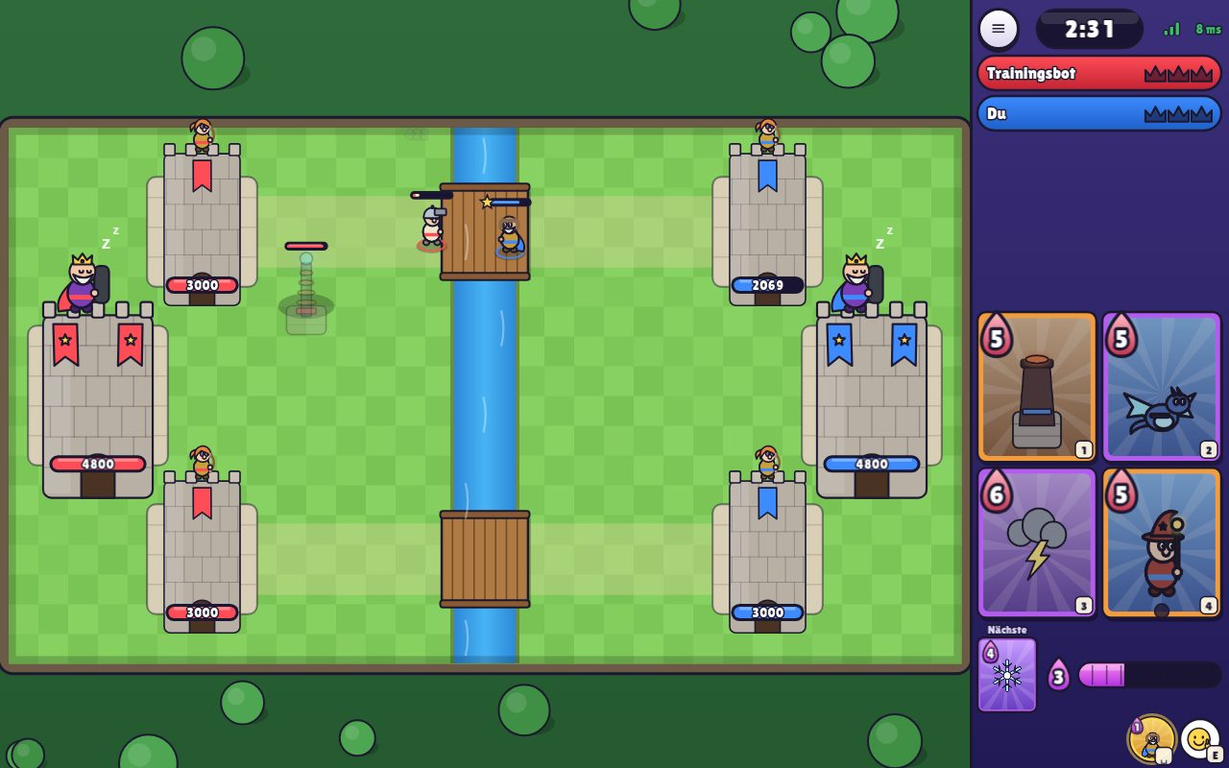
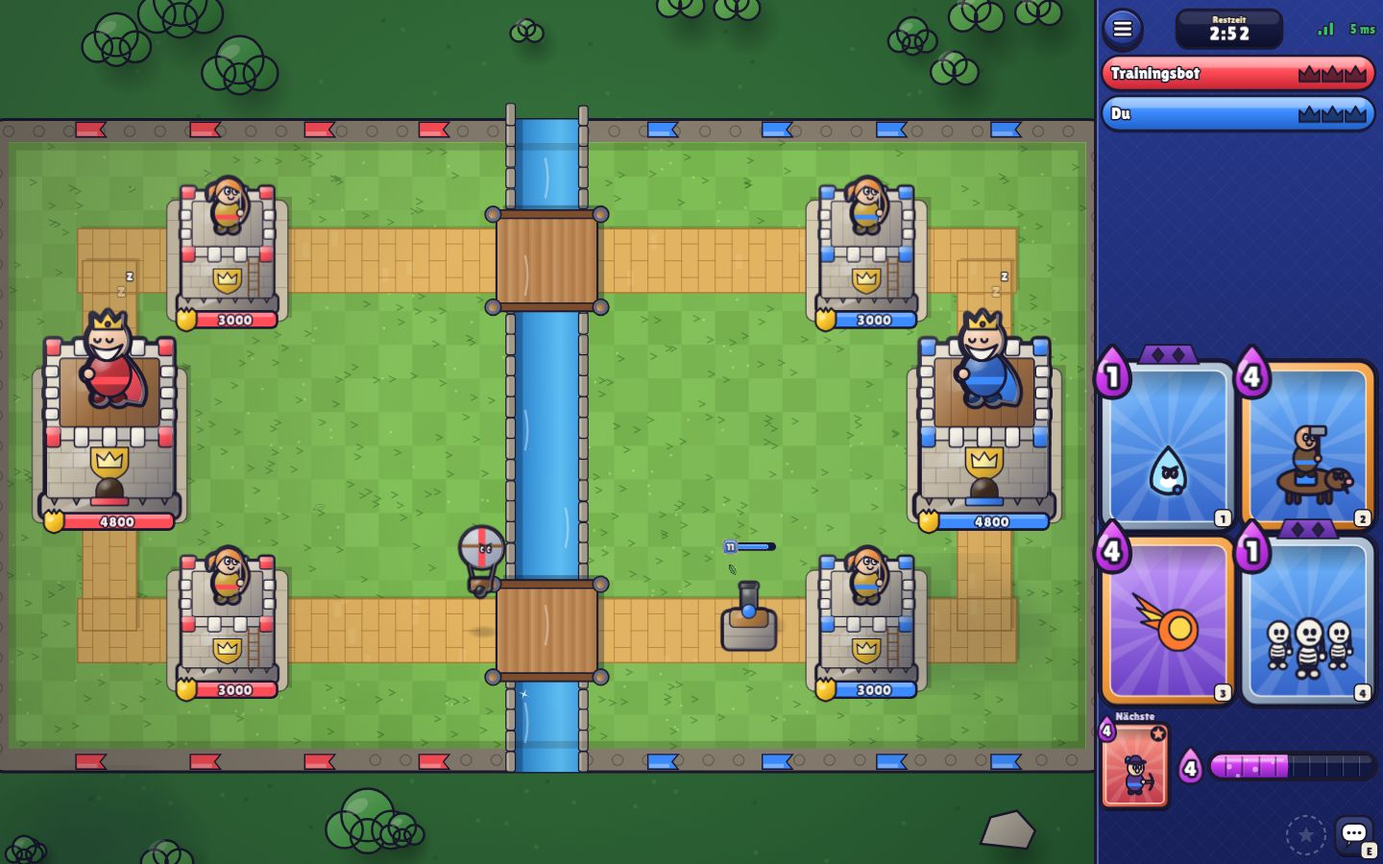
Bericht zum visuellen Upgrade (docs/REPORT.md), Vergleichsbögen vorher/nachher, README aktualisiert
- REPORT: Umbauten pro Phase, Dateistruktur, Vorher/Nachher, Performance (Extremszene gesamt und
  nur Kampfphase, normales Match mit automatischer und fester Auflösung), Mehrspieler-Test,
  Einschränkungen, offene Punkte, Anleitungen zu Presets, Designsystem und Qualitätsstufen
- docs/before_after/vergleich: 17 beschriftete Gegenüberstellungen
- README: Steuerung (Emote-Leiste, F3), Architektur, Werkzeuge, Titelbilder im neuen Look

Claude-Session: https://claude.ai/code/session_01Y8rRgYSLLZGca4oDTBhhbE

diff --git a/turmtrubel/docs/REPORT.md b/turmtrubel/docs/REPORT.md
@@ -1,0 +1,307 @@
+# Bericht: Visuelles Upgrade (Vektor-Look, VFX, Game-UI)
+
+Stand: 7. Oktober 2026 · Branch `claude/1v1-card-game-browser-l8fwez` · Commits `3ac0793` bis zum Commit dieses Berichts.
+
+Grundlagen: [`AUDIT.md`](AUDIT.md) (Ausgangslage), [`COMPARISON.md`](COMPARISON.md) (Referenz-Vergleich), [`STYLE_GUIDE.md`](STYLE_GUIDE.md) (Designsystem und Schnittstellen), [`vfx-katalog/`](vfx-katalog/) (alle Effekte als Kontaktbögen), [`before_after/`](before_after/) (Vorher/Nachher-Bilder und Messwerte).
+
+## Kurzfassung
+
+- **Spiellogik unangetastet.** `server/`, `shared/protocol.js`, `shared/arena.js`, `data/cards.json` und `data/rules.json` sind seit Beginn des Upgrades unverändert. Einzige Änderung in `shared/`: `applySkin` reicht zwei neue, rein optische Skin-Felder durch (`archetype`, `fx`). Alle Effekte werden clientseitig aus den bestehenden Ereignissen abgeleitet, es gibt keine neuen Protokoll-Ereignisse.
+- **Ein Vektor-Look für alles:** Licht von oben links, Glanz, dunkle Außenkontur, Rim-Light, weicher Schatten, als zentrales Licht-Modell im Zeichen-Primitiv. Figuren, Gebäude, Türme, HUD, Icons und DOM-Screens folgen denselben Tokens.
+- **VFX-Engine** mit Objekt-Pool, Prioritäten, additivem Blending, Spuren, Shockwaves, Decals, Glows, Blitzen, Schadenszahlen, Hit-Stop und Wackeln mit Regler. 99 JSON-Presets in drei Zeitstufen (Vorlauf, Kern, Nachhall).
+- **Game-UI:** Kartenhand mit Seltenheitsrahmen und Elixier-Fortschritt, Flüssigkeits-Elixierleiste, Timer-Box, Kronen-Plaketten, neue Türme mit Schadenstufen, Lebensbalken mit weißem Nachzieher, Emote-Leiste, Phasen-Banner. Dazu DOM-Screens in Nachtblau mit mehrstufigen 3D-Knöpfen, eigenem SVG-Icon-Set, Drag-and-Drop im Deck-Bauer, Kartendetail mit Reitern und Ergebnis mit Kronen-Kissen.
+- **Performance:** Trotz deutlich mehr Details läuft die Extremszene schneller als vorher (Zahlen in Abschnitt 4). Das liegt an Sprite-Cache, statischer Hintergrund-Ebene, Partikel-Pool und dynamischer Qualität. Die Zielwerte für Mittelklasse-Handys (60 FPS, mindestens 30 FPS) sind in dieser Testumgebung **nicht nachweisbar**, weil sie keine GPU hat (siehe Einschränkungen).
+- **Tests:** 276 Unit- und Integrationstests grün (neu: VFX, Manifest, Skin-Erweiterung). Dazu ein neuer Browser-Mehrspielertest: zwei echte Clients spielen ganze Kämpfe inklusive Verlängerung, ohne Konsolenfehler und ohne Desync.
+
+## 1. Umbauten pro Phase
+
+### Phase 1: Audit (`docs/AUDIT.md`)
+
+- Dateibaum, Render-Schichten, Inventar aller Zeichenroutinen (23 Körper, 20 Waffen, 19 Hüte, 12 Gebäude) und vorhandene Effekte.
+- Performance-Basis mit eigenem Werkzeug (`tools/bench/`): deterministische Extremszene mit bis zu 222 Entitäten, CPU-Drosselung, Long Tasks, Zeichenaufrufe.
+- 75 Vorher-Screenshots in drei Formaten und 38 Szenenbilder (`docs/before_after/before/`), neun benannte visuelle Schwächen, Risiken und Gegenmaßnahmen.
+
+### Phase 2: Vergleich (`docs/COMPARISON.md`, `docs/STYLE_GUIDE.md`)
+
+- Referenz-Screenshots nur als Orientierung für Layout, Proportionen, Hierarchie, Farblogik und Timing. Es wurden keine Assets übernommen, alles ist neu als Vektor gezeichnet.
+- Für Elixierleiste, Emote-Auswahl, Lobby, Einstellungen und das vollständige Hauptmenü gab es keine Referenz. Das ist dort so vermerkt; gestaltet wurde nach dem Style Guide, nicht aus dem Gedächtnis.
+- Bewusste Abweichung: Schatten fallen nach unten rechts (Licht von oben links laut Vorgabe), in der Referenz nach unten links.
+
+### Phase 3: Designsystem
+
+- **Tokens** (`client/js/design/tokens.js`, CSS `:root`): Team-, Gold-, Elixier- und Night-Palette, Seltenheiten inklusive Evo, Champion und Held, Effekt-Paletten, Konturen, Radien, Abstände, Z-Ebenen, Licht-Parameter und Qualitätsstufen.
+- **Licht-Regel als Code** (`design/light.js`): `LitCtx` umhüllt den Canvas-Kontext und füllt jede Form mit einem Verlauf von oben links nach unten rechts plus Glanz. `finishSprite` ergänzt dicke Außenkontur, Rim-Light unten rechts und ein Gesamtlicht. Weil das im Zeichen-Primitiv `fill()` sitzt, bekommen alle bestehenden Körper, Waffen, Hüte und Gebäude Volumen, ohne einzeln neu geschrieben zu werden.
+- **Asset-Pipeline mit Cache** (`design/spritecache.js`): Figuren, Gebäude und Türme werden einmal je Look, Team, Evo, Richtung, Frame, Größe und Qualität gerendert (LRU, 40 MB, höchstens 8 Neubauten bzw. 6 ms pro Frame, `force` im Ladescreen).
+- **Archetypen und Animation:** Frames Ruhe, Lauf 1 und 2, Angriff 1 und 2, Betäubt und Schlaf; prozedurales Squash und Stretch beim Kopieren; Rückansicht beim Laufen nach oben (Hochformat), Blickrichtung links und rechts.
+- **Asset-Manifest** (`design/manifest.js`) und `skin.json`-Erweiterung (`archetype`, `fx`), abwärtskompatibel.
+- **Easing-Bibliothek** (`design/easing.js`), dieselben Kurven als CSS-Variablen.
+
+### Phase 4: VFX
+
+- **Engine** (`client/js/vfx/engine.js`):
+  - Objekt-Pool und Prioritäten (Deko wird zuerst verdrängt)
+  - drei Ebenen: Boden, normal, additiv
+  - Emitter, Spuren, Ringe bzw. Shockwaves, Decals, Glows, Zickzack-Blitze, Flash, Schadenszahlen
+  - Wackeln nach Trauma-Modell mit Regler; Hit-Stop als reine Darstellungsverzögerung (Simulation und Eingaben unberührt)
+  - optionaler Sound-Hook
+- **Texturen** (`vfx/textures.js`): 17 Partikelformen und 7 Decals, prozedural und eingefärbt gecacht.
+- **Presets** (`vfx/presets.json`, 99 Stück) in drei Schichten mit Zeitstaffelung, Radius-Skalierung und Teamfarben; beim Start validiert.
+- **Katalog:**
+  - Ausspielen (Boden, schwer, Luft, Evo)
+  - Treffer leicht und schwer
+  - Projektil-Spuren und Einschläge
+  - alle Zauber
+  - Explosionen und Fähigkeiten
+  - Tod (Schwärme ab der 7. Figur pro Frame als sparsamer Effekt)
+  - Turm-Treffer, -Schadenstufen und -Zerstörung
+  - Königs-Erwachen, Elixier
+  - Phasen („Kampf!“, Doppel- und Dreifach-Elixier, Verlängerung, Sieg)
+  - Ambiente
+- Zauberzonen mit Bodenscheibe, Teamring und Runenring.
+- Einschläge werden clientseitig erkannt (Projektil-ID verschwindet); es gibt keine neuen Server-Ereignisse.
+
+### Phase 5: UI
+
+- **Arena:** Rand mit Bannern, Gras mit Variation, Fluss mit Steinkante und Wellen, Holzbrücken, Licht-Verlauf und Vignette. Gezeichnet auf eine eigene, statische Hintergrund-Ebene (`#bg-canvas`), die nur bei Größenänderung neu entsteht.
+- **Türme:** Steinkörper mit Zinnen, Wappen, Schadenstufen, Trümmern und Königskanone; Figuren mit Schlaf-Pose.
+- **Kampf-HUD** (`game/hud.js`, `game/hudart.js`):
+  - Kartenhand: Seltenheitsrahmen, Evo-, Champion- und Helden-Marke, Glanzstreifen bei bezahlbaren Karten, Graustufen mit Elixier-Fortschritt von unten, Evo-bereit-Rahmen, Auswahl-Glühen, nächste Karte mit Slide
+  - Elixierleiste: 10 Segmente, Flüssigkeit mit Welle, Glanz und Blasen, Pop beim Tropfen, Voll-Glühen, Kosten-Kerbe
+  - Timer-Box: rot pulsierend ab 10 s, Multiplikator-Tropfen ×2 bzw. ×3
+  - Kronen-Plaketten mit Kronenflug
+  - Lebensbalken mit weißem Nachzieher, bei vollem Leben ausgeblendet
+  - Emote-Leiste (einzeilig, bei zu wenig Breite 3×2), Phasen-Banner als Band-Schleifen
+  - Debug-Overlay auf F3
+- **DOM-Screens** in Nachtblau:
+  - Panels mit Lichtkante und Mulden, mehrstufige 3D-Knöpfe (Kontur, farbige Lippe, Verlauf, Glanzband) in allen Zuständen inklusive „deaktiviert“ und „lädt“
+  - eigenes SVG-Icon-Set (73 Icons) statt Emojis, Reiter, Schalter, Segmente
+  - Modal-Pop bzw. Bottom-Sheet, Screen-Übergänge
+- **Einzelne Screens:**
+  - Hauptmenü mit Arena-Bühne
+  - Lobby mit Code-Kacheln, Kopieren-Häkchen und Bereit-Siegel
+  - Deck-Bauer mit Drag-and-Drop in und zwischen Plätzen (Einrast-Animation, Zurückfliegen, Entfernen durch Ziehen in die Sammlung)
+  - Kartendetail mit Reitern Werte, Evo und Fähigkeit sowie Evo-Vorschau
+  - Einstellungen
+  - Ergebnis mit Bändern, Kronen-Kissen und gestaffeltem Kronen-Einsprung, Rematch-Status
+
+### Phase 6: Juice
+
+- Zentrale Easing-Kurven in JS und CSS.
+- Pop-, Einrast- und Überschwing-Animationen: Karten, Slots, Kronen, Code-Kacheln, Häkchen, Banner, Emote-Knöpfe.
+- Hit-Stop bei schweren Treffern, Wackeln mit Abklingen, Flash.
+- Sound-Hooks in Presets (Typ `sound`, läuft mit der Zeitstaffelung, z. B. Geröll im Nachhall des Turm-Einsturzes).
+
+### Phase 7: Performance und Barrierefreiheit
+
+- **Performance:**
+  - Sprite-Cache; statische Hintergrund-Ebene; Wackeln per CSS-Transform statt Neuzeichnen
+  - Text-Sprites; Partikel-Pool mit Budget je Qualität
+  - Lebensbalken nur bei Schaden, Abzeichen nur für größere Einheiten
+  - Vorrendern von Türmen, VFX-Texturen und den Figuren des eigenen Decks im Ladescreen
+- **Dynamische Qualität:** Bei anhaltend langsamen Frames sinken Renderauflösung (DPR 2 → 1,5 → 1,25 → 1) und Effektmenge (bis 40 %); bei flüssigem Lauf steigen sie wieder, mit Hysterese.
+- **Einstellungen:** Grafikqualität, automatische Qualität, Effekte reduzieren, Bildschirmwackeln (Regler), Farbenblind-Modus (Gegner-Abzeichen als Schild, gestreifte Gegner-Lebensbalken), Schadenszahlen.
+- **`prefers-reduced-motion`:** kein Wackeln, kein Hit-Stop, gedämpfter Flash, keine CSS-Animationen, kein Ambiente.
+- **Touch-Ziele** mindestens 44 px; geprüft von `tools/ui-shots.mjs` in jedem Zustand und Format.
+
+### Phase 8: Tests
+
+- **Unit-Tests:** VFX (Presets gültig und vollständig, Zeitstaffelung, Pooling, Lebensdauer, Partikelgrenzen und Prioritäten, Radius-Skalierung, Hit-Stop, reduzierte Bewegung, Effekte reduzieren, Sound-Hook), Manifest und Skin-Erweiterung.
+- **E2E-Test:** In `test/e2e.test.js` fehlte das reguläre Kampfende `tiebreak` (Entscheidung nach Turm-LP nach der Verlängerung). Deshalb schlug der Test je nach Timing sporadisch fehl; der Grund ist ergänzt.
+- **Neu:** `tools/e2e/browser-match.mjs` (zwei echte Browser-Clients, siehe Abschnitt 4).
+- **Selbstprüfung:** mehrere Runden über Screenshots und den VFX-Katalog (`tools/vfx-gallery.mjs`), unter anderem zu Radius-Skalierung, Additiv-Überstrahlung auf hellem Gras, Decal-Stärke, Königsturm-Proportionen und Schwarm-Abzeichen.
+
+## 2. Dateistruktur (neu bzw. wesentlich geändert)
+
+```
+client/
+  index.html                 #bg-canvas, SVG-Icons statt Emojis, Arena-Bühne im Menü
+  css/style.css              Nachtblau-Theme, 3D-Knöpfe, Reiter, Drag-and-Drop, Ergebnis, Bühne
+  js/design/
+    tokens.js                Farben, Licht-Parameter, Qualitätsstufen (Canvas)
+    easing.js                Easing-Bibliothek
+    light.js                 Licht-Modell (LitCtx, finishSprite, softGlow, softShadow)
+    spritecache.js           LRU-Sprite-Cache mit Bau-Budget pro Frame
+    manifest.js              Asset-Manifest
+  js/vfx/
+    engine.js                VFX-Engine (Pool, Ebenen, Shake, Hit-Stop, Sound-Hook)
+    textures.js              Partikel- und Decal-Texturen
+    presets.json             99 Effekt-Presets
+    presets.js               Laden und Validieren der Presets
+  js/game/
+    sprites.js               Figuren, Gebäude, Türme im Licht-Modell, Frames, Rückansicht, Katalog
+    renderer.js              Arena, Schatten, Zonen, Balken, Abzeichen, Wolken
+    hud.js / hudart.js       Kampf-HUD und seine gecachten Grafiken (Panels, Karten, Banner …)
+    game.js                  Ereignisse → Effekte, Phasen, Ambiente, dynamische Qualität, F3
+  js/ui/
+    icons.js                 SVG-Icon-Set (Sprite)
+    deckbuilder.js           Drag-and-Drop
+    cardview.js              Kartendetail mit Reitern
+    settings.js              neue Einstellungen
+  js/game/particles.js       entfernt (ersetzt durch vfx/)
+shared/cards.js              applySkin: archetype, fx (rein optisch)
+data/skin.json               Beschreibung der neuen Felder
+tools/
+  bench/run.mjs, replay.mjs  Extremszene und Messung (inklusive „nur Kampf“)
+  bench/profile.mjs          CPU-Profil nach Selbstzeit
+  bench/ablate.mjs           Abschalt-Varianten zur Kostenanalyse
+  vfx-gallery.mjs            VFX-Kontaktbögen
+  ui-shots.mjs               Screenshot-Tour mit Layout-Prüfungen und --perf
+  e2e/browser-match.mjs      zwei Browser-Clients, Desync- und Konsolenprüfung
+test/vfx.test.js, test/manifest.test.js, test/skin.test.js (erweitert), test/e2e.test.js (korrigiert)
+docs/AUDIT.md, COMPARISON.md, STYLE_GUIDE.md, REPORT.md, vfx-katalog/, before_after/
+```
+
+## 3. Vorher und nachher
+
+Alle Bilder liegen paarweise mit identischen Dateinamen in [`before_after/before/`](before_after/before/) und [`before_after/after/`](before_after/after/): 25 Zustände in drei Formaten (Handy hochkant 390×844, Handy quer 844×390, Desktop 1440×900). Die Extremszene liegt in `…/szene/` (19 Marken, Desktop und Handy hochkant). Nebeneinandergestellte Vergleichsbögen der wichtigsten Zustände stehen in [`before_after/vergleich/`](before_after/vergleich/).
+
+| Bereich | Vorher (Auszug aus dem Audit) | Nachher |
+|---|---|---|
+| Arena | grelles Schachbrett, flacher Fluss, braune Rechtecke als Brücken, keine Vignette | Rand mit Bannern, Gras mit Variation, Fluss mit Steinkante, Holzbrücken, Licht-Verlauf, Vignette; Ambiente bei Qualität Hoch |
+| Figuren | flach, gleich dicke Kontur, harte Schatten, keine Richtung | Licht-Modell (Verlauf, Glanz, Rim-Light, dicke Außenkontur), weicher Schatten nach unten rechts, Rückansicht, Lauf- und Angriffs-Frames |
+| Türme | graue Kästen, nur „!“ beim Erwachen | Zinnen, Wappen, Schadenstufen, Trümmer, Königskanone, Erwach-Effekt mit Glow und Shockwave |
+| Zauber | blasser Ring, kleine Funken, Linie als Blitz | dreistufige Effekte mit Decals, additivem Leuchten, Shockwave, Zickzack-Blitzen, Hit-Stop und Wackeln |
+| Schwärme | 15 Balken, 15 Ringe, Zahlenwand | Balken nur bei Schaden, keine Abzeichen für kleine Einheiten, gebündelte Effekte |
+| Kampf-HUD | flache Karten, einfache Pille als Timer | Seltenheitsrahmen, Elixier-Fortschritt, Flüssigkeitsleiste, Timer-Box, Kronen-Plaketten, Emote-Leiste, Banner |
+| DOM-Screens | Creme-Panels, Emojis als Icons | Nachtblau-Panels, mehrstufige 3D-Knöpfe, SVG-Icons, Reiter, Drag-and-Drop, Kronen-Kissen |
+
+Layout-Prüfungen der Screenshot-Tour (`tools/ui-shots.mjs`): Arena unter dem HUD, abgeschnittene Elemente, gekürzte Texte, Touch-Ziele unter 44 px, Toasts über der Arena und Konsolenfehler. Nachher in allen 75 Zuständen jeweils **0** (`before_after/after/checks.json`); vorher gab es unter anderem gekürzte Kartennamen im Menü.
+
+## 4. Performance und Stabilität
+
+**Messumgebung:** Chromium 141 headless über Playwright, **ohne GPU** (Software-Rasterung). Die CPU-Drosselung erfolgt per DevTools-Protokoll; 4× dient als übliche Näherung für ein Mittelklasse-Handy. Gemessen werden rAF-Frame-Zeiten, Long Tasks (> 50 ms) und `performance.memory`. Werkzeuge: `tools/bench/run.mjs` (Extremszene) und `tools/ui-shots.mjs --perf` (normales Match). Rohdaten liegen in `before_after/perf-*.json`.
+
+### 4.1 Extremszene (bis zu 222 Entitäten, alle großen Zauber, Turmzerstörung, Champion, Held; 14 s)
+
+Gesamter Lauf, gleiche Messmethode wie im Audit:
+
+| Profil | | FPS | p95 | schlechtester Frame | Long Tasks (max) | Wiedergabe (Soll 14 s) | Heap | Zeichenaufrufe/Frame |
+|---|---|---|---|---|---|---|---|---|
+| Desktop 1440×900, CPU 1× | vorher | 27 | 67 ms | 617 ms | 128 (93 ms) | 22,9 s | 23,2 MB | 4422 |
+|  | nachher | **39** | 50 ms | 483 ms | 9 (135 ms) | 20 s | 16,5 MB | 841 |
+| Handy 390×844, CPU 4× | vorher | 6 | 350 ms | 2633 ms | 487 (466 ms) | 131,4 s | 24,1 MB | – |
+|  | nachher | **14** | 167 ms | 2333 ms | 496 (791 ms) | 54,2 s | 40,8 MB | – |
+| Handy 844×390, CPU 4× | vorher | 5 | 350 ms | 2483 ms | 494 (508 ms) | 136,7 s | 21,1 MB | – |
+|  | nachher | **13** | 167 ms | 2383 ms | 496 (1026 ms) | 55,5 s | 46,6 MB | – |
+
+- Zeichenaufrufe pro Frame (Desktop): **4422 → 841** (−81 %), vor allem durch den Sprite-Cache und die statische Hintergrund-Ebene.
+- Die Wiedergabe der 14-s-Szene dauert am gedrosselten Handy **54–56 s statt 131–137 s**. Der Main-Thread staut sich also weit weniger.
+- Der höhere Heap (bis 47 MB) ist der Sprite-Cache (Budget 40 MB) und damit beabsichtigt.
+- Partikel-Spitze 900: Das ist das Budget der Stufe Hoch (vorher fest 700).
+
+Nur Kampfphase: Für diesen fairen Vergleich wurde auch der Stand vor dem Upgrade mit dem erweiterten Werkzeug nachgemessen (`perf-before-kampfphase.json`). „Vorbereitung“ ist die Arbeit, die im Spiel hinter dem Ladescreen liegt: Hintergrund, Turm-Sprites, VFX-Texturen.
+
+| Profil | | Vorbereitung | schlechtester Frame | p99 | Long Tasks (max) |
+|---|---|---|---|---|---|
+| Desktop, CPU 1× | vorher | 15 ms | 117 ms | 83 ms | 142 (97 ms) |
+|  | nachher | 134 ms | 67 ms | 50 ms | 8 (74 ms) |
+| Handy hochkant, CPU 4× | vorher | 58 ms | 467 ms | 400 ms | 493 (469 ms) |
+|  | nachher | 784 ms | 333 ms | 267 ms | 495 (330 ms) |
+| Handy quer, CPU 4× | vorher | 60 ms | 433 ms | 383 ms | 504 (418 ms) |
+|  | nachher | 1018 ms | 333 ms | 267 ms | 495 (599 ms) |
+
+- Die einzelnen Ausreißer-Frames von über 2 s im Gesamtlauf entstehen beim Laden der Spielmodule und der Vorbereitung, vorher wie nachher. Im Kampf selbst sind schlechtester Frame und p99 deutlich besser.
+- **Längster Long Task im Querformat:** Er liegt nachher in einem von zwei Läufen über dem alten Wert (599 bzw. 743 ms gegenüber 418 ms).
+  - Die spielinterne Aufschlüsselung zeigt keinen Kampf-Frame mit mehr als 162 ms JavaScript.
+  - Laut CPU-Profil entfallen 66 % der Zeit auf native Rasterung und Compositing („(program)“), 9 % auf `drawImage` und nur 0,4 % auf die Garbage Collection.
+  - Diese Spitzen sind also Software-Rasterung ganzer Bildschirm-Ebenen und schwanken zwischen Läufen stark. Auf Geräten mit GPU-Beschleunigung fallen sie in dieser Form nicht an.
+
+### 4.2 Normales Trainingsmatch (10 s gegen den Bot, eigene Karten werden gespielt)
+
+| Profil | vorher | nachher, automatische Qualität (Standard) | nachher, feste Auflösung |
+|---|---|---|---|
+| Handy 390×844, CPU 4× | 10 FPS · p95 133 ms · Long Tasks 101 (max 175 ms) | **34 FPS** · p95 50 ms · Long Tasks 13 (max 128 ms) · DPR 1 | **18 FPS** · p95 100 ms · Long Tasks 77 (max 145 ms) · DPR 2 |
+| Handy 844×390, CPU 4× | 10 FPS · p95 133 ms · Long Tasks 105 (max 170 ms) | **34 FPS** · p95 50 ms · Long Tasks 19 (max 125 ms) · DPR 1 | **21 FPS** · p95 67 ms · Long Tasks 66 (max 138 ms) · DPR 2 |
+| Desktop 1440×900, CPU 4× | 10 FPS · p95 133 ms · Long Tasks 107 (max 172 ms) | **21 FPS** · p95 67 ms · Long Tasks 52 (max 127 ms) · DPR 1 | **21 FPS** · p95 67 ms · Long Tasks 54 (max 105 ms) · DPR 1 |
+| Desktop 1440×900, CPU 1× | 53 FPS · p95 33 ms · Long Tasks 0 | **60 FPS** · p95 17 ms · Long Tasks 0 | – |
+
+- **Automatische Qualität:** Die Spalte ist der Standard. Sie senkt am gedrosselten Handy die Renderauflösung auf DPR 1 und erreicht damit gut das Dreifache der früheren Bildrate.
+- **Feste Auflösung:** Mit DPR 2 wie vorher sind es knapp doppelt so viele Bilder pro Sekunde wie vor dem Upgrade.
+- **JavaScript-Anteil pro Frame:** Er liegt im Mittel bei etwa 7 ms (Zeichnen 5–6 ms, davon HUD rund 2 ms, Figuren rund 1,5 ms; Effekte rund 1 ms). Der Rest ist Rasterung.
+
+### 4.3 Mehrspieler: zwei Browser-Clients, volles Match mit Verlängerung
+
+| Kampf | Decks | Ergebnis (Client A / Client B) | Verlängerung | Server-Ticks verglichen | Desync | Konsolenfehler | ausgespielte Karten | Dauer (Zeitraffer ×3) |
+|---|---|---|---|---|---|---|---|---|
+| Verlängerung | nur Zauber und Gebäude, Zauber in den Fluss | Unentschieden / Unentschieden (Unentschieden) | ja, 2401 Ticks | 6001 | **0** | **0** | 72 / 70 | 108 s |
+| Normal | Startdecks mit Truppen | Niederlage / Sieg! (Burgturm zerstört) | nein | 3534 | **0** | **0** | 46 / 44 | 67 s |
+
+- **Ablauf:** wie ein Mensch über die echte Oberfläche.
+  1. Client A (Handy hochkant) erstellt einen Kampf, Client B (Handy quer) tritt mit dem Code bei.
+  2. Beide klicken „Bereit!“ und durchlaufen Countdown und Ladescreen.
+  3. Beide spielen laufend bezahlbare Karten, bis der Ergebnis-Screen kommt.
+- **Desync-Prüfung:** Jeder Client bildet für jeden empfangenen Server-Tick eine Prüfsumme über alle Entitäten (ID, LP, Position) plus Kronen und Phase. Für alle Ticks, die beide gesehen haben, müssen die Summen übereinstimmen.
+- **Ergebnis-Prüfung:** Grund identisch, Kronen gespiegelt, Sieg/Niederlage bzw. beidseitig Unentschieden.
+- **Aufruf:** `node tools/e2e/browser-match.mjs --scale=3` (optional `--only=verlaengerung`); Rohdaten in `before_after/mp-match.json`.
+- **Weitere Tests:** Die bestehenden Server-E2E-Kämpfe (Teil von `npm test`: alle Mechanik-Gruppen, Champion, Held, Evo) und alle 276 Tests sind grün.
+
+## 5. Einschränkungen
+
+- **Keine GPU in der Testumgebung.** Chromium rastert hier in Software. Rund zwei Drittel der Zeit (66 %) entfallen laut CPU-Profil auf „(program)“, also native Rasterung und Compositing, nicht auf das Spiel-JavaScript. Absolute FPS-Werte, besonders mit 4-facher CPU-Drosselung, liegen deshalb weit unter dem, was ein echtes Mittelklasse-Handy mit GPU-Beschleunigung schafft. Die Zielwerte 60 FPS bzw. mindestens 30 FPS konnten hier **weder bestätigt noch widerlegt** werden. Belastbar sind die relativen Verbesserungen und die Zahl der Zeichenaufrufe.
+- **Extremszene am gedrosselten Handy-Profil:** Sie bleibt in dieser Umgebung mit 13–14 FPS deutlich unter 30 FPS. Die dynamische Qualität senkt dann Auflösung und Effektmenge, das reicht hier aber nicht für 30 FPS.
+- **Einmalige Vorbereitungsarbeit:** Hintergrund, Turm-Sprites, VFX-Texturen und Deck-Figuren werden im Ladescreen gerendert. In der Benchmark-Messung fällt diese Phase als einzelner langer Block an (Abschnitt 4, Spalte „Vorbereitung“). Im echten Ablauf liegt sie hinter der VS-Einblendung.
+- **Referenzlücken:** Für Elixierleiste, Emote-Auswahl, Lobby, Einstellungen und das vollständige Hauptmenü gab es kein Referenzbild. Diese Teile folgen dem Style Guide.
+- **Emote-Auswahl:** Sie ist als Leiste umgesetzt (eine Zeile über dem Emote-Knopf, bei zu wenig Breite 3×2), nicht als Radialmenü.
+- **Animationen:** Sie sind je Archetyp generisch (Ruhe, zwei Lauf- und zwei Angriffs-Frames, Betäubt, Schlaf) mit prozeduralem Squash und Stretch. Es gibt keine eigene Animation pro Karte.
+- **Sounds:** Sie bleiben die vorhandenen prozedural erzeugten Klänge. Die Sound-Hooks erlauben das Andocken eigener Klänge, es wurden aber keine neuen Sound-Dateien erstellt.
+- **Desync-Prüfung:** Sie vergleicht Prüfsummen über Entitäten (ID, LP, Position) und Kronen pro Server-Tick. Ein Server-Zeitraffer (×3) beschleunigt die Kämpfe; das Protokoll ist dasselbe wie im Echtbetrieb.
+
+## 6. Offene Punkte
+
+- Messung auf echten Geräten (Mittelklasse-Android mit Chrome, älteres iPhone mit Safari) mit `F3`-Overlay und `tools/ui-shots.mjs --perf --url=…`.
+- Optional ein Radial-Layout für Emotes als Alternative zur Leiste.
+- Eigene Animationen für Sonderfiguren (zum Beispiel Bergarbeiter beim Graben, Ballon beim Abwurf) statt der generischen Archetyp-Frames.
+- Eigene Sound-Dateien über den Sound-Hook (`{ "type": "sound", "name": … }`) einbinden.
+- Alte Vorher-Bilder unter `docs/ui-referenz/vorher*` zeigen noch die früher erfundenen Karten. Ob sie gelöscht werden sollen, ist offen und wartet auf deine Entscheidung.
+
+## 7. Anleitungen
+
+### 7.1 VFX-Presets anlegen oder ändern
+
+1. In `client/js/vfx/presets.json` einen Eintrag unter einem Ereignisnamen anlegen (Namen siehe `STYLE_GUIDE.md` §11) oder einen bestehenden ändern. Aufbau:
+   ```json
+   "spell.fire": {
+     "scaleWith": "radius", "baseRadius": 2.5,
+     "delays": { "core": 0.08, "post": 0.25 },
+     "layers": {
+       "pre":  [ … ],
+       "core": [ { "type": "burst", "count": 30, "shape": "flame", "colors": ["#ffd84d", "team"], "speed": [2, 5], "life": [0.3, 0.6], "size": [0.3, 0.5], "sizeEnd": 0.05, "blend": "add" } ],
+       "post": [ { "type": "decal", "shape": "scorch", "life": 3 }, { "type": "sound", "name": "crumble", "vol": 0.5 } ]
+     }
+   }
+   ```
+2. Zeitstaffelung einhalten: Vorlauf 80–200 ms, Kern 100–400 ms, Nachhall 300–1000 ms (`delays` in Sekunden; der Test prüft Vorlauf ≤ 200 ms und Nachhall nach dem Kern).
+3. Formen (`shape`) und Decals: siehe `client/js/vfx/textures.js` bzw. `manifest().particleShapes` und `manifest().decals`. Farben `"team"`, `"teamLight"`, `"enemy"` werden zur Laufzeit ersetzt.
+4. Deko-Partikel mit `"prio": 0` markieren. Sie entfallen bei „Effekte reduzieren“ und werden bei vollem Budget zuerst verdrängt.
+5. Prüfen:
+   - `node --test test/vfx.test.js` (Validierung)
+   - `node tools/vfx-gallery.mjs --only=spell.fire --out=/tmp/vfx` (Kontaktbogen zu fünf Zeitpunkten)
+   - im Spiel mit `F3` (Partikelzahl, Budget)
+6. Pro Karte ein anderes Preset oder eine andere Farbe: `data/skin.json` → `"fx": { "preset": "…", "tint": "#22cc88" }`.
+
+### 7.2 Designsystem verwenden
+
+- **Farben und Maße:** `client/js/design/tokens.js` (Canvas) bzw. CSS-Variablen in `client/css/style.css` (`--night-*`, `--gold-*`, Knopf-Lippen). Keine Farbwerte direkt in Komponenten schreiben.
+- **Figuren und Gebäude zeichnen:** Formen über das `fill()`-Primitiv in `game/sprites.js` füllen. Das Licht-Modell (`LitCtx`) ergänzt Verlauf und Glanz, `finishSprite` die Kontur und das Rim-Light. Ergebnisse immer über `sprites.obtain(key, builder)` cachen; der Schlüssel muss alle sichtbaren Parameter enthalten.
+- **HUD-Grafiken:** wiederverwendbare Teile in `game/hudart.js` (`paintPanel`, `paintWell`, `cardSprite`, `ribbon`, `emotePanel` …). Jedes Teil wird je Größe einmal gerendert und danach nur kopiert.
+- **DOM-Bausteine:**
+  - Knöpfe: `.btn` plus Rolle `.btn-primary`, `.btn-secondary`, `.btn-success`, `.btn-danger`, `.btn-accent` oder `.btn-ghost`, Größe `.btn-small` oder `.btn-big`. Zustände über `disabled` bzw. `aria-busy="true"`.
+  - Flächen: `.panel`, `.well`; Reiter `.tabs` / `.tab`.
+  - Icons: `icon('name')` bzw. `ico('name')` aus `ui/icons.js` bzw. `ui/dom.js`; in HTML `<svg class="i"><use href="#i-name"/></svg>`.
+  - Ein neues Icon kommt als Eintrag in `ICONS` hinzu (24er-Raster; Helfer `sh` = Form mit Kontur, `ln` = Linie mit Kontur, `hl` = Glanz).
+- **Bewegung:** Kurven aus `design/easing.js` (`backOut` für Pop, `outCubic` für Bewegung, `elasticOut` für Belohnung) bzw. `--ease-out` und `--ease-pop` in CSS. Jede Animation muss bei `prefers-reduced-motion` entfallen oder kurz sein.
+
+### 7.3 Qualitätsstufen
+
+| Stufe | Render-DPR max. | Partikel | Decals | Spuren | Glanz | Ambiente |
+|---|---|---|---|---|---|---|
+| Niedrig | 1 | 220 | 6 | 10 | aus | aus |
+| Mittel | 1,5 | 500 | 12 | 24 | an | aus |
+| Hoch (Standard) | 2 | 900 | 24 | 40 | an | Wolken, Glitzern, Blätter |
+
+- **Automatische Qualität** (Standard an): Bleibt die geglättete Frame-Zeit über 1,2 s hinweg über 24 ms, sinkt die Renderauflösung eine Stufe (2 → 1,5 → 1,25 → 1) und die Effektmenge um 20 % (bis 40 %). Nach 5 s unter 15 ms geht es schrittweise zurück. Hintergrund und Sprites behalten ihre Auflösung; das spart Neuzeichnungen beim Wechsel.
+- **Effekte reduzieren:** halbiert Partikel, lässt Deko weg und schaltet Konfetti, Ambiente und den animierten Menühintergrund ab.
+- **Bildschirmwackeln:** Regler 0–100 % (0 = aus).
+- **Farbenblind-Modus:** Gegner zusätzlich über Form (Schild-Abzeichen) und Streifen (Lebensbalken) erkennbar.
+- **System „reduzierte Bewegung“:** kein Wackeln, kein Hit-Stop, gedämpfter Flash, keine CSS-Animationen.
+- **`F3`** zeigt FPS, Frame-Zeit, DPR, Partikel bzw. Budget, Decals, Spuren, Sprite-Cache und die Zeitaufteilung des langsamsten Frames.

diff --git a/turmtrubel/README.md b/turmtrubel/README.md
@@ -45,8 +45,9 @@ Dann im Browser **http://localhost:3000** öffnen.
 | Karte spielen | Karte aufs Feld **ziehen** *oder* Karte **antippen**, dann Feld antippen | `1`–`4` wählt die Karte, dann Klick aufs Feld |
 | Auswahl abbrechen | Karte erneut antippen oder zurück auf die Hand ziehen | `Esc` |
 | Champion-/Helden-Fähigkeit | runder Knopf neben dem Emote-Knopf (Kartenpanel bzw. neben der Arena) | `Leertaste` oder `Q` |
-| Emote | Smiley-Knopf, dann eines von 6 Emotes | `E` |
-| Menü, Ton, Aufgeben | `≡` oben links bzw. oben im Kartenpanel | – |
+| Emote | Sprechblasen-Knopf, dann eines von 6 Emotes aus der Leiste | `E` |
+| Menü, Ton, Aufgeben | Menü-Knopf (drei Striche) oben links bzw. oben im Kartenpanel | – |
+| Leistungsanzeige (FPS, Partikel, Sprite-Cache) | – | `F3` |
 
 Solange eine Karte ausgewählt ist, ist der gesperrte Bereich rot schraffiert, die Elixierleiste markiert die Kosten, und eine Vorschau zeigt Formation, Reichweite bzw. Zauberradius. Liegt der Finger auf der gegnerischen Hälfte, rastet die Truppe am Flussufer ein.
 
@@ -138,13 +139,18 @@ turmtrubel/
 ├─ client/js/net.js         WebSocket, Reconnect, Ping
 ├─ client/js/audio.js       Web-Audio-SFX + prozedurale Musik
 ├─ client/js/store.js       localStorage (Name, Einstellungen, 5 Deck-Plätze)
-├─ client/js/ui/…           Deck-Bauer, Kartenansicht, Einstellungen, DOM-Helfer (Modal, Toast), tokens.js (Design-Tokens fürs Canvas)
-├─ client/js/game/…         game.js (Interpolation, Eingabe), renderer.js, hud.js (Layout-Engine), canvastext.js, sprites.js, particles.js
+├─ client/js/ui/…           Deck-Bauer (mit Drag-and-Drop), Kartenansicht, Einstellungen, DOM-Helfer (Modal, Toast), icons.js (SVG-Icon-Set), tokens.js
+├─ client/js/game/…         game.js (Interpolation, Eingabe, Effekt-Ereignisse), renderer.js, hud.js (Layout-Engine), hudart.js (HUD-Grafiken), canvastext.js, sprites.js
+├─ client/js/design/…       Designsystem: Tokens, Easing, Licht-Modell, Sprite-Cache, Asset-Manifest
+├─ client/js/vfx/…          VFX-Engine, Partikel-Texturen, presets.json (Effekt-Presets) und deren Prüfung
 ├─ tools/fetch-cards.mjs    lädt den Wiki-Snapshot (MediaWiki-API)
 ├─ tools/cards/             Kartendefinitionen + build.py → data/cards.json, TODO_missing_stats.md
-├─ tools/e2e/               Test-Clients, die über WebSocket komplette Kämpfe spielen
+├─ tools/e2e/               Test-Clients, die über WebSocket komplette Kämpfe spielen; browser-match.mjs (zwei Browser-Clients)
 ├─ tools/ui-shots.mjs       Screenshots aller Zustände in 8 Viewports + automatische UI-Prüfungen
-├─ docs/ui-*.md             UI-Audit, Entscheidungen, Vorher/Nachher
+├─ tools/bench/             Extremszene, Performance-Messung, CPU-Profil
+├─ tools/vfx-gallery.mjs    alle VFX-Presets als Kontaktbögen
+├─ docs/ui-*.md             UI-Audit, Entscheidungen, Vorher/Nachher (erste UI-Überarbeitung)
+├─ docs/REPORT.md           Bericht zum visuellen Upgrade (mit AUDIT, COMPARISON, STYLE_GUIDE, vfx-katalog/, before_after/)
 └─ test/…                   node:test-Tests
 ```
 
@@ -237,6 +243,10 @@ Die Tests laufen mit dem eingebauten `node:test`, ohne zusätzliche Abhängigkei
 node tools/ui-shots.mjs                          # alle 8 Viewports → docs/ui-nachher/ (+ checks.json)
 node tools/ui-shots.mjs --only=phone-360x640     # nur einzelne Viewports
 node tools/ui-shots.mjs --perf                   # FPS und Long Tasks im Bot-Kampf, CPU 4× gedrosselt
+node tools/ui-shots.mjs --perf --fixed           # dito mit fester Auflösung (automatische Qualität aus)
+node tools/bench/run.mjs                         # Extremszene (222 Entitäten) in drei Profilen
+node tools/vfx-gallery.mjs --out=docs/vfx-katalog # alle Effekte als Kontaktbögen
+node tools/e2e/browser-match.mjs                 # zwei Browser-Clients: volles Match inkl. Verlängerung, Desync- und Konsolenprüfung
 ```
 
 Das Skript startet selbst einen Server auf einem freien Port und spielt pro Viewport den ganzen Ablauf durch: Name → Menü → Einstellungen → Beitreten → Deck-Bauer → Kartendetail → Training → Countdown → Laden → Kampf → Karte wählen/ziehen/ausspielen → Fehlertoast → Emote → Pause → letzte 10 s → zerstörter Turm → Aufgeben → Ergebnis (Niederlage und Sieg) → Multiplayer-Lobby mit zwei Seiten. Jeder Zustand wird geprüft: Touch-Ziele unter 44 px, Elemente außerhalb des Bildschirms, abgeschnittene Texte ohne Volltext, HUD über der Arena (über `hud.blocks()`), Toast über dem Kampfgeschehen und Konsolenfehler. Ein nicht leerer Befund bei Arena-Überdeckung oder Seitenfehlern führt zu Exit-Code 1.
@@ -254,9 +264,9 @@ Playwright ist **keine** Projektabhängigkeit (damit `npm install` schlank bleib
 * **Keine Vorhersage beim Platzieren:** Eigene Karten erscheinen erst nach der Server-Bestätigung (Ping + ca. 110 ms Interpolationspuffer). Bis dahin ist eine Vorschau sichtbar.
 * **Netzlast:** Snapshots werden jeden Tick komplett als JSON gesendet (typisch 0,5–6 KB), ohne Delta-Kompression. Das reicht für LAN und normales Internet, ist aber nicht optimiert.
 * **Anti-Cheat** prüft alle Eingaben auf dem Server. Gegen automatisierte Clients (Bots), die gültige Eingaben senden, schützt er nicht.
-* **Grafik vollständig prozedural:** Das sieht charmant aus, ist aber einfacher als handgezeichnete Sprites. Auf sehr alten Geräten hilft *Grafikqualität: Niedrig*.
+* **Grafik vollständig prozedural:** Figuren, Türme, HUD und Effekte sind als Vektorgrafik im Code gezeichnet (Licht-Modell und Regeln in `docs/STYLE_GUIDE.md`) und werden als Sprites gecacht. Auf sehr alten Geräten hilft *Grafikqualität: Niedrig*; die automatische Qualität senkt bei Ruckeln Auflösung und Effektmenge.
 * **Audio:** Browser (besonders iOS) starten Ton erst nach der ersten Berührung. Musik und Effekte sind synthetisch.
-* **Oberfläche:** Im Hochformat erscheint der Hinweis-Toast (z. B. „Nicht genug Elixier!“) für 1,4 s am unteren Arenarand über dem eigenen Burgturm. Vibration gibt es nur, wo der Browser `navigator.vibrate` anbietet (nicht auf iOS). Die Performance ist bisher nur in Chromium gemessen (siehe `docs/ui-vorher-nachher.md`).
+* **Oberfläche:** Im Hochformat erscheint der Hinweis-Toast (z. B. „Nicht genug Elixier!“) für 1,4 s am unteren Arenarand über dem eigenen Burgturm. Vibration gibt es nur, wo der Browser `navigator.vibrate` anbietet (nicht auf iOS). Die Performance ist bisher nur in Chromium ohne GPU gemessen (siehe `docs/REPORT.md`, Abschnitt 4).
 * **Designentscheidungen:** Champions und Helden lösen ihre Fähigkeit per Knopf aus. Evo-Karten starten ungeladen (`evo.startCharged` in `rules.json`). Die Turmnamen (Wachturm, Burgturm) sind eigenständig, die Kartennamen kommen aus dem Original (umschaltbar über `skin.json`).
 
 ---
